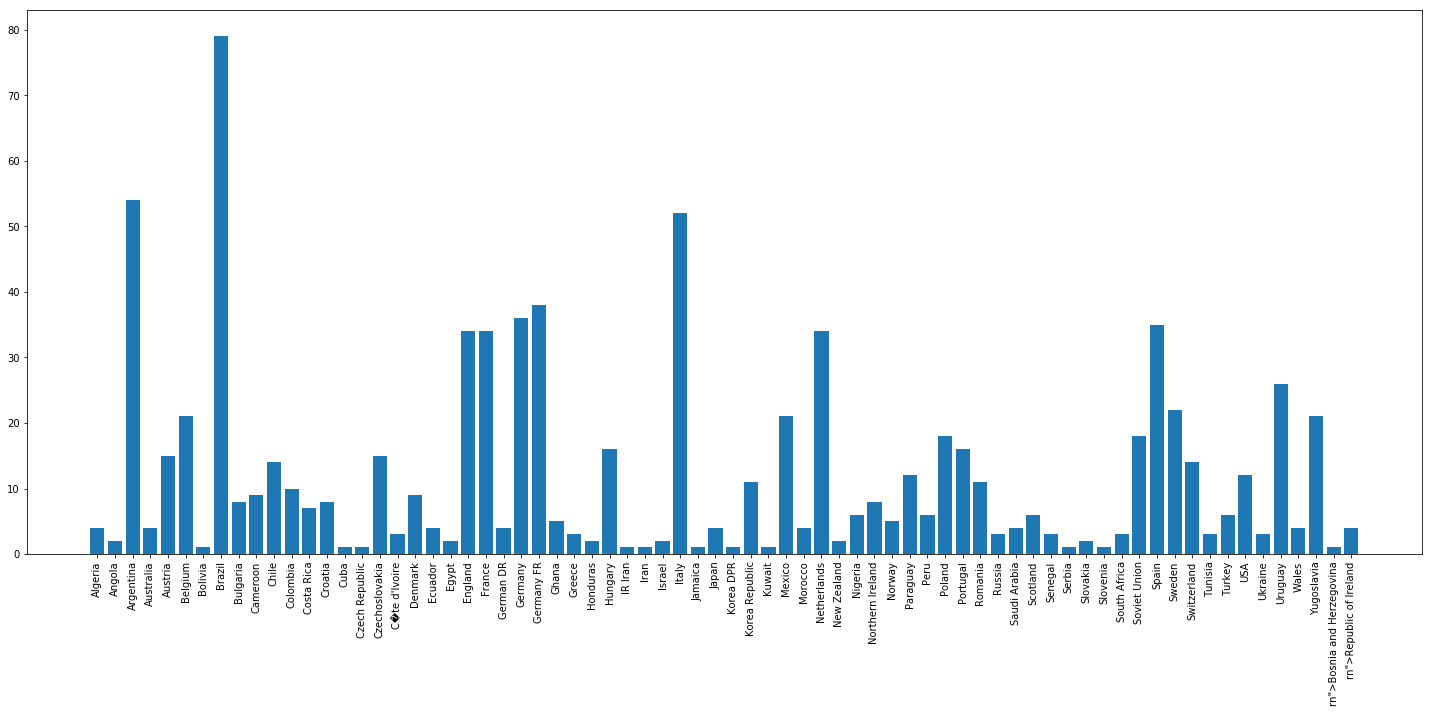
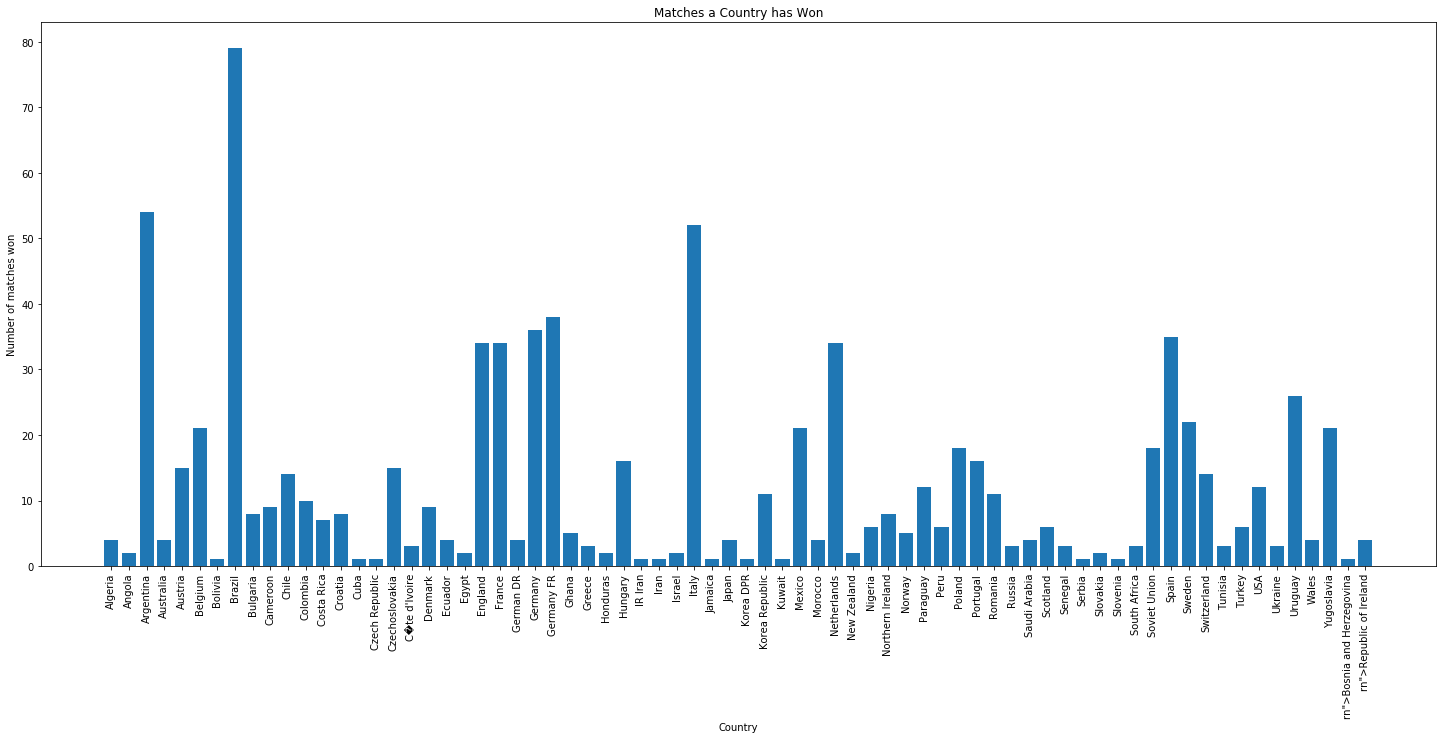
latest changes

diff --git a/_build/html/index.html b/_build/html/index.html
@@ -6,7 +6,7 @@
   <head>
     <meta http-equiv="Content-Type" content="text/html; charset=utf-8" />
     
-    <title>Welcome to FootBall Visualzation’s documentation! &#8212; FootBall Visualzation  documentation</title>
+    <title>Welcome to FootBall Visualzation! &#8212; FootBall Visualzation  documentation</title>
     
     <link rel="stylesheet" href="_static/alabaster.css" type="text/css" />
     <link rel="stylesheet" href="_static/pygments.css" type="text/css" />
@@ -42,8 +42,8 @@
         <div class="bodywrapper">
           <div class="body" role="main">
             
-  <div class="section" id="welcome-to-football-visualzation-s-documentation">
-<h1>Welcome to FootBall Visualzation&#8217;s documentation!<a class="headerlink" href="#welcome-to-football-visualzation-s-documentation" title="Permalink to this headline">¶</a></h1>
+  <div class="section" id="welcome-to-football-visualzation">
+<h1>Welcome to FootBall Visualzation!<a class="headerlink" href="#welcome-to-football-visualzation" title="Permalink to this headline">¶</a></h1>
 <div class="toctree-wrapper compound">
 </div>
 </div>
@@ -68,10 +68,11 @@
 </ol>
 <p>In the end, we found that the world cup has been increasing in popularity and increasing in the number of teams participating. However, the most interesting thing to notice, is how the world cup not only grow on it&#8217;s own, but also grew along side the world as a whole.</p>
 </div>
-<div class="section" id="data-accusition">
-<h1>Data Accusition<a class="headerlink" href="#data-accusition" title="Permalink to this headline">¶</a></h1>
+<div class="section" id="data-accusition-and-manipulation">
+<h1>Data Accusition and Manipulation<a class="headerlink" href="#data-accusition-and-manipulation" title="Permalink to this headline">¶</a></h1>
 <p>The first step to any data science project, is to aquire some data. In our project, this was done be vigorously scrolling through the internet, trying to find any data on the World Cup. Our first stop was kaggle.com, because it has some really good data on a lot of different subjects, expetinoally sports. And after looking around for a while, we did in fact find the data we were looking for <a class="reference external" href="...">here</a>. On that website&#8217;s page, we found three datasets. The first had information on the gernal world cups from 1930 to 2014. The second had information on each match that happened at each world cup. The last on had information each people and couch of each team in each world cup. From this data, we had to do a little data monuvering to get them all together and working. This was done by doing a quick join in pandas like this:</p>
 <p>the dataframe <em>matches</em> is the dataframe with every match in each world cup. next, the set_index([&#8216;Year&#8217;]) is used to make sure the two dataframes have the same index. Next, within the join function, the <em>cups</em> dataframe contains the gernal information on each world cup. Notice the .drop function being called on the <em>cups</em> dataframe. This was done because both <em>matches</em> and <em>cups</em> have a column called &#8220;Attendance&#8221; so to make the join work, one of them had to go. We choose to drop the <em>cups</em> column because there are more match attendaces then cups so later on the <em>matches</em> attendance column will be used along with the other info in <em>matches</em> and <em>cups</em> so having that column is more important. Finally, we set the index of the <em>cups</em> dataframe to be the same as the <em>matches</em> dataframe and we got ourselves a good joined dataframe. This is just the beginning of all the data munipulations that are done to this dataframe to create the graphs later on in this website.</p>
+<p>The other big change to the data was adding a column for which team won each match. This may not at first seem like such a challenge, because there are columns of which how many times a team scored in the match. However, the score doesn&#8217;t take into account if the match was a tie at the end of regulation time. So one of the harder things to add within the data was a column that could tell into another column &#8220;win condition&#8221; and if that row&#8217;s cell had that countries name in it, then say true. Otherwise (if they did lose) then say False. More information on how this was done in the notebook</p>
 </div>
 <div class="section" id="host-country-data">
 <h1>Host Country Data<a class="headerlink" href="#host-country-data" title="Permalink to this headline">¶</a></h1>
@@ -96,6 +97,14 @@
 </div>
 <p>From the three graphs, it&#8217;s clear that there was at one point a very signficant home field advantage. It seems that before 1970, if you were the home team, you were almost certain to win. And with a standerd deveation of 0.088, 50% is clearly not close to the mean. However, after 1970, the mean ratio of wins is closer to 50% being within one standerd deviation. So this means that at one point, there was a significant chance of winning if you were the home team. But now a days, it is more random. Also from the first graph, you can see a postive linear slope that shows that as time went on, more matches were played. Yet contrasting to what was said before, as time went on, the percent of times the home team won has gone down over time. So, what we can gather from this data, is that the world cup has both gotten more random in it&#8217;s selection of who is the home team, and, more importantly, that as time went on, more teams were more evenly matched.</p>
 </div>
+<div class="section" id="country-wins">
+<h1>Country Wins<a class="headerlink" href="#country-wins" title="Permalink to this headline">¶</a></h1>
+<p>Let&#8217;s take a more broader view of the world cup and look at each countires win rate. The first graph looks at the number of times a country has won a world cup</p>
+<div class="figure">
+<img alt="_images/matcheswinovertime.png" src="_images/matcheswinovertime.png" />
+</div>
+<p>Notice how few countries there are! out of 20 different world cups, only eight countries have every won the whole thing. Really shows how dominating some countries are at football!</p>
+</div>
 
 
           </div>
@@ -105,12 +114,13 @@
         <div class="sphinxsidebarwrapper">
   <h3><a href="#">Table Of Contents</a></h3>
   <ul>
-<li><a class="reference internal" href="#">Welcome to FootBall Visualzation&#8217;s documentation!</a></li>
+<li><a class="reference internal" href="#">Welcome to FootBall Visualzation!</a></li>
 <li><a class="reference internal" href="#indices-and-tables">Indices and tables</a></li>
 <li><a class="reference internal" href="#abstract">Abstract</a></li>
-<li><a class="reference internal" href="#data-accusition">Data Accusition</a></li>
+<li><a class="reference internal" href="#data-accusition-and-manipulation">Data Accusition and Manipulation</a></li>
 <li><a class="reference internal" href="#host-country-data">Host Country Data</a></li>
 <li><a class="reference internal" href="#home-team-data">Home Team Data</a></li>
+<li><a class="reference internal" href="#country-wins">Country Wins</a></li>
 </ul>
 <div class="relations">
 <h3>Related Topics</h3>

diff --git a/_build/html/searchindex.js b/_build/html/searchindex.js
@@ -1,1 +1,1 @@
-Search.setIndex({docnames:["MyWebSite/index","index"],envversion:51,filenames:["MyWebSite/index.rst","index.rst"],objects:{},objnames:{},objtypes:{},terms:{"final":[0,1],"function":[0,1],"import":[0,1],"true":1,"try":[0,1],"while":[0,1],And:[0,1],But:1,Going:1,One:1,The:[0,1],With:1,about:[0,1],advantag:1,after:[0,1],agru:1,all:[0,1],almost:1,along:[0,1],also:[0,1],analysi:[0,1],ani:[0,1],answer:[0,1],aquir:[0,1],around:[0,1],aspect:[0,1],attend:[0,1],attendac:[0,1],austin:[0,1],autend:[0,1],axi:0,bar:1,becaus:[0,1],been:[0,1],befor:1,begin:[0,1],being:[0,1],between:1,big:[0,1],bit:1,block:[0,1],both:[0,1],call:[0,1],can:1,certain:1,chanc:[0,1],chang:[0,1],choos:[0,1],clear:1,clearli:1,close:1,closer:1,code:0,column:[0,1],com:[0,1],compar:1,conclud:1,contain:[0,1],contrast:1,couch:[0,1],creat:[0,1],cup:[0,1],dai:1,datafram:[0,1],dataset:[0,1],detail:1,deveat:1,deviat:1,did:[0,1],differ:[0,1],doe:[0,1],doesn:1,doing:[0,1],done:[0,1],down:1,drop:[0,1],each:[0,1],either:1,end:[0,1],enough:1,evenli:1,everi:[0,1],evid:1,expetino:[0,1],fact:[0,1],field:1,figur:1,find:[0,1],first:[0,1],focus:[0,1],found:[0,1],four:[0,1],from:[0,1],gather:1,gavin:[0,1],gener:1,gernal:[0,1],get:[0,1],gone:1,good:[0,1],got:[0,1],gotten:1,graph:[0,1],greater:1,grew:[0,1],grow:[0,1],had:[0,1],happen:[0,1],hard:1,has:[0,1],have:[0,1],height:1,here:[0,1],higher:1,histogram:1,home:0,hostcountri:0,how:[0,1],howev:[0,1],importantli:1,increas:[0,1],index:[0,1],info:[0,1],inform:[0,1],interest:[0,1],internet:[0,1],invers:1,ipynb:0,isn:1,join:[0,1],just:[0,1],kaggl:[0,1],last:[0,1],later:[0,1],like:[0,1],linear:1,littl:[0,1],look:[0,1],lot:[0,1],made:[0,1],mainli:1,make:[0,1],mani:1,match:[0,1],matchesjoin:0,mean:1,modul:[0,1],monuv:[0,1],more:[0,1],most:[0,1],much:1,multipl:[0,1],munipul:[0,1],name:[0,1],next:[0,1],note:1,notebook:0,notic:[0,1],now:1,number:[0,1],off:1,often:1,one:[0,1],onli:[0,1],other:[0,1],our:[0,1],ourselv:[0,1],over:[0,1],own:[0,1],page:[0,1],panda:[0,1],particip:[0,1],pattern:1,penenti:[0,1],peopl:[0,1],percent:1,plai:1,point:1,popular:[0,1],postiv:1,precent:1,project:[0,1],purpos:[0,1],put:1,python:0,question:[0,1],quick:[0,1],random:1,ratio:1,realli:[0,1],regardless:1,said:1,same:[0,1],scatter:1,schaeferl:[0,1],scienc:[0,1],score:[0,1],scroll:[0,1],search:[0,1],second:[0,1],see:1,seem:1,select:1,semi:1,set:[0,1],set_index:[0,1],show:[0,1],shown:1,side:[0,1],signfic:1,signific:1,similar:1,slight:1,slightli:1,slope:1,some:[0,1],sport:[0,1],standerd:1,start:[0,1],statu:1,step:[0,1],stop:[0,1],subject:[0,1],subsect:[0,1],sure:[0,1],team:0,thei:1,them:[0,1],thi:[0,1],thing:[0,1],three:[0,1],through:[0,1],time:[0,1],togeth:[0,1],total:1,two:[0,1],used:[0,1],veri:1,vigor:[0,1],websit:[0,1],went:1,were:[0,1],what:1,which:[0,1],whither:1,who:1,whole:[0,1],win:[0,1],within:[0,1],won:[0,1],word:1,work:[0,1],world:[0,1],worldcupdata:0,would:1,year:[0,1],yet:1,you:1,your:[0,1]},titles:["Welcome to FootBall Visualzation&#8217;s documentation!","Welcome to FootBall Visualzation&#8217;s documentation!"],titleterms:{"abstract":[0,1],accusit:[0,1],countri:[0,1],data:[0,1],document:[0,1],footbal:[0,1],home:1,host:[0,1],indic:[0,1],tabl:[0,1],team:1,visualz:[0,1],welcom:[0,1]}})
+Search.setIndex({docnames:["MyWebSite/index","index"],envversion:51,filenames:["MyWebSite/index.rst","index.rst"],objects:{},objnames:{},objtypes:{},terms:{"final":[0,1],"function":[0,1],"import":[0,1],"true":1,"try":[0,1],"while":[0,1],And:[0,1],But:1,Going:1,One:1,The:[0,1],With:1,about:[0,1],account:1,add:1,adding:1,advantag:1,after:[0,1],agru:1,all:[0,1],almost:1,along:[0,1],also:[0,1],analysi:[0,1],ani:[0,1],anoth:1,answer:[0,1],aquir:[0,1],around:[0,1],aspect:[0,1],attend:[0,1],attendac:[0,1],austin:[0,1],autend:[0,1],axi:0,bar:1,becaus:[0,1],been:[0,1],befor:1,begin:[0,1],being:[0,1],between:1,big:[0,1],bit:1,block:[0,1],both:[0,1],broader:1,call:[0,1],can:1,cell:1,certain:1,challeng:1,chanc:[0,1],chang:[0,1],choos:[0,1],clear:1,clearli:1,close:1,closer:1,code:0,column:[0,1],com:[0,1],compar:1,conclud:1,condit:1,contain:[0,1],contrast:1,couch:[0,1],could:1,countir:1,creat:[0,1],cup:[0,1],dai:1,datafram:[0,1],dataset:[0,1],detail:1,deveat:1,deviat:1,did:[0,1],differ:[0,1],doe:[0,1],doesn:1,doing:[0,1],domin:1,done:[0,1],down:1,drop:[0,1],each:[0,1],eight:1,either:1,end:[0,1],enough:1,evenli:1,everi:[0,1],evid:1,expetino:[0,1],fact:[0,1],fals:1,few:1,field:1,figur:1,find:[0,1],first:[0,1],focus:[0,1],found:[0,1],four:[0,1],from:[0,1],gather:1,gavin:[0,1],gener:1,gernal:[0,1],get:[0,1],gone:1,good:[0,1],got:[0,1],gotten:1,graph:[0,1],greater:1,grew:[0,1],grow:[0,1],had:[0,1],happen:[0,1],hard:1,harder:1,has:[0,1],have:[0,1],height:1,here:[0,1],higher:1,histogram:1,home:0,hostcountri:0,how:[0,1],howev:[0,1],importantli:1,increas:[0,1],index:[0,1],info:[0,1],inform:[0,1],interest:[0,1],internet:[0,1],invers:1,ipynb:0,isn:1,join:[0,1],just:[0,1],kaggl:[0,1],last:[0,1],later:[0,1],let:1,like:[0,1],linear:1,littl:[0,1],look:[0,1],lose:1,lot:[0,1],made:[0,1],mai:1,mainli:1,make:[0,1],mani:1,match:[0,1],matchesjoin:0,mean:1,modul:[0,1],monuv:[0,1],more:[0,1],most:[0,1],much:1,multipl:[0,1],munipul:[0,1],name:[0,1],next:[0,1],note:1,notebook:[0,1],notic:[0,1],now:1,number:[0,1],off:1,often:1,one:[0,1],onli:[0,1],other:[0,1],otherwis:1,our:[0,1],ourselv:[0,1],out:1,over:[0,1],own:[0,1],page:[0,1],panda:[0,1],particip:[0,1],pattern:1,penenti:[0,1],peopl:[0,1],percent:1,plai:1,point:1,popular:[0,1],postiv:1,precent:1,project:[0,1],purpos:[0,1],put:1,python:0,question:[0,1],quick:[0,1],random:1,rate:1,ratio:1,realli:[0,1],regardless:1,regul:1,row:1,sai:1,said:1,same:[0,1],scatter:1,schaeferl:[0,1],scienc:[0,1],score:[0,1],scroll:[0,1],search:[0,1],second:[0,1],see:1,seem:1,select:1,semi:1,set:[0,1],set_index:[0,1],show:[0,1],shown:1,side:[0,1],signfic:1,signific:1,similar:1,slight:1,slightli:1,slope:1,some:[0,1],sport:[0,1],standerd:1,start:[0,1],statu:1,step:[0,1],stop:[0,1],subject:[0,1],subsect:[0,1],sure:[0,1],take:1,team:0,tell:1,thei:1,them:[0,1],thi:[0,1],thing:[0,1],three:[0,1],through:[0,1],tie:1,time:[0,1],togeth:[0,1],total:1,two:[0,1],used:[0,1],veri:1,view:1,vigor:[0,1],websit:[0,1],went:1,were:[0,1],what:1,which:[0,1],whither:1,who:1,whole:[0,1],win:0,within:[0,1],won:[0,1],word:1,work:[0,1],world:[0,1],worldcupdata:0,would:1,year:[0,1],yet:1,you:1,your:[0,1]},titles:["Welcome to FootBall Visualzation&#8217;s documentation!","Welcome to FootBall Visualzation!"],titleterms:{"abstract":[0,1],accusit:[0,1],countri:[0,1],data:[0,1],document:0,footbal:[0,1],home:1,host:[0,1],indic:[0,1],manipul:1,tabl:[0,1],team:1,visualz:[0,1],welcom:[0,1],win:1}})

diff --git a/index.rst b/index.rst
@@ -3,7 +3,7 @@
    You can adapt this file completely to your liking, but it should at least
    contain the root `toctree` directive.
 
-Welcome to FootBall Visualzation's documentation!
+Welcome to FootBall Visualzation!
 =================================================
 
 .. toctree::
@@ -33,14 +33,16 @@ This website was created by Gavin Schaeferle and Austin "last name". The purpose
 
 In the end, we found that the world cup has been increasing in popularity and increasing in the number of teams participating. However, the most interesting thing to notice, is how the world cup not only grow on it's own, but also grew along side the world as a whole. 
 
-Data Accusition
-============================
+Data Accusition and Manipulation
+======================================
 The first step to any data science project, is to aquire some data. In our project, this was done be vigorously scrolling through the internet, trying to find any data on the World Cup. Our first stop was kaggle.com, because it has some really good data on a lot of different subjects, expetinoally sports. And after looking around for a while, we did in fact find the data we were looking for `here <...>`_. On that website's page, we found three datasets. The first had information on the gernal world cups from 1930 to 2014. The second had information on each match that happened at each world cup. The last on had information each people and couch of each team in each world cup. From this data, we had to do a little data monuvering to get them all together and working. This was done by doing a quick join in pandas like this: 
 
 .. code-block:: python
 	matchesJoin = matches.set_index(['Year']).join(cups.drop(['Attendance'],axis = 1).set_index(['Year']))
 
 the dataframe *matches* is the dataframe with every match in each world cup. next, the set_index(['Year']) is used to make sure the two dataframes have the same index. Next, within the join function, the *cups* dataframe contains the gernal information on each world cup. Notice the .drop function being called on the *cups* dataframe. This was done because both *matches* and *cups* have a column called "Attendance" so to make the join work, one of them had to go. We choose to drop the *cups* column because there are more match attendaces then cups so later on the *matches* attendance column will be used along with the other info in *matches* and *cups* so having that column is more important. Finally, we set the index of the *cups* dataframe to be the same as the *matches* dataframe and we got ourselves a good joined dataframe. This is just the beginning of all the data munipulations that are done to this dataframe to create the graphs later on in this website. 
+
+The other big change to the data was adding a column for which team won each match. This may not at first seem like such a challenge, because there are columns of which how many times a team scored in the match. However, the score doesn't take into account if the match was a tie at the end of regulation time. So one of the harder things to add within the data was a column that could tell into another column "win condition" and if that row's cell had that countries name in it, then say true. Otherwise (if they did lose) then say False. More information on how this was done in the notebook
 
 
 Host Country Data
@@ -71,7 +73,13 @@ The three graphs are very similar to the host country's three graph figure. The 
 From the three graphs, it's clear that there was at one point a very signficant home field advantage. It seems that before 1970, if you were the home team, you were almost certain to win. And with a standerd deveation of 0.088, 50% is clearly not close to the mean. However, after 1970, the mean ratio of wins is closer to 50% being within one standerd deviation. So this means that at one point, there was a significant chance of winning if you were the home team. But now a days, it is more random. Also from the first graph, you can see a postive linear slope that shows that as time went on, more matches were played. Yet contrasting to what was said before, as time went on, the percent of times the home team won has gone down over time. So, what we can gather from this data, is that the world cup has both gotten more random in it's selection of who is the home team, and, more importantly, that as time went on, more teams were more evenly matched. 
 
 
+Country Wins
+=====================
+Let's take a more broader view of the world cup and look at each countires win rate. The first graph looks at the number of times a country has won a world cup
 
+.. figure:: image/matcheswinovertime.png
+
+Notice how few countries there are! out of 20 different world cups, only eight countries have every won the whole thing. Really shows how dominating some countries are at football! 
 
 
 
